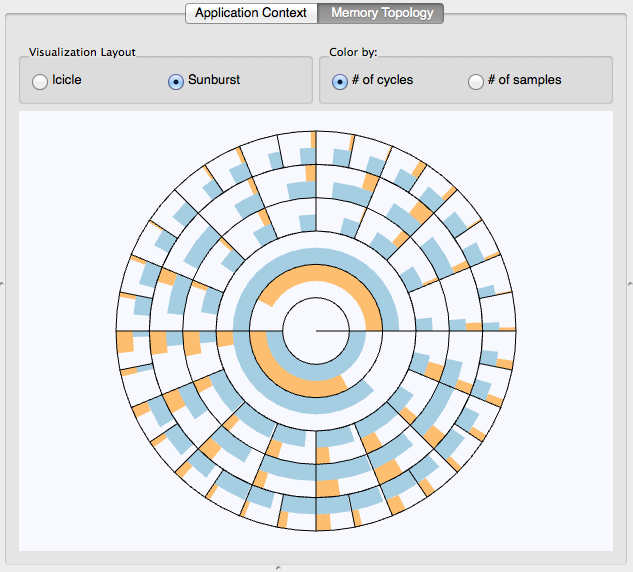
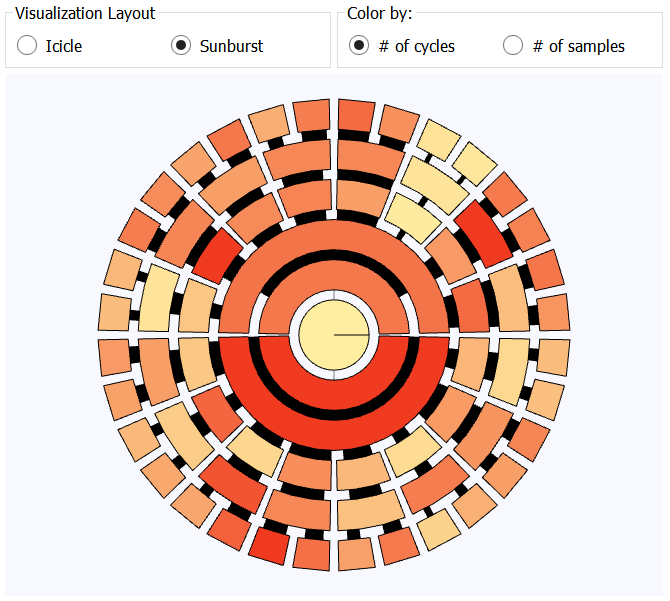
updated readme

diff --git a/README.md b/README.md
@@ -40,17 +40,19 @@ build Qt5.
 ## Hardware Topology
 ![image](images/topo.png)
 
-The hardware resources of a node are displayed as a hierarchy, where
-the node is the root, its memory resources are internal nodes, and
-logical cores are the leaves. MemAxes displays this hierarchy either
-radially, as a Sunburst chart, or vertically, as an Icicle chart
-(user-specified).
+The hardware resources of a node are displayed as a hierarchy.
+Internal nodes in the hierarchy represent memory resources, i.e. 
+NUMA nodes and caches, and leaves represent logical processors. 
+MemAxes can show this hierarchy either radially (as shown) or vertically, 
+by choosing either Sunburst or Icicle, respectively.
 
-Within the nodes, MemAxes displays either the number of total memory
-access cycles or samples associated with a particular resource as a
-mini bar chart. The bar charts are scaled relative to all other
-resources at the same depth, e.g. all L1 caches use the same scale,
-but may not use the same scale used by L2 caches.
+The colors of the segments within the hierarchy represent either total
+memory access cycles associated with the resource or total memory access 
+samples associated with it (you can select an option in the top pane). 
+
+The thick black lines between segments represent the total number of 
+transactions between pairs of resources, assuming the hardware copies 
+memory between caches from largest to smallest after the memory is found.
 
 Nodes may be selected by clicking, upon which all samples associated
 with the clicked resource will be selected. On mouse hover, a tooltip
@@ -83,17 +85,11 @@ There is no selection capability in this view, but the rendering will
 represent the current selection only (or the entire dataset, if
 nothing is selected).
 
-## Parallel Coordinates
+## Parallel Histograms
 ![image](images/pcoords.png)
 
-The parallel coordinate view is an abstract multidimensional
-representation that shows all values of all samples in one view. Each
-parallel axis denotes an attribute of the sample, and each polyline
-that intersects the axes represents a single sample.
-
-MemAxes includes options to change the opacity of selected or
-unselected samples, as well as show histograms representing the number
-of samples that intersect an axis over small bins.
+This view shows a histogram of each axis for the current selection (or
+for all the data, if nothing is selected). 
 
 The user may select ranges on any axis by clicking and dragging
 vertically on an axis, as well as rearrange axes by dragging the name
